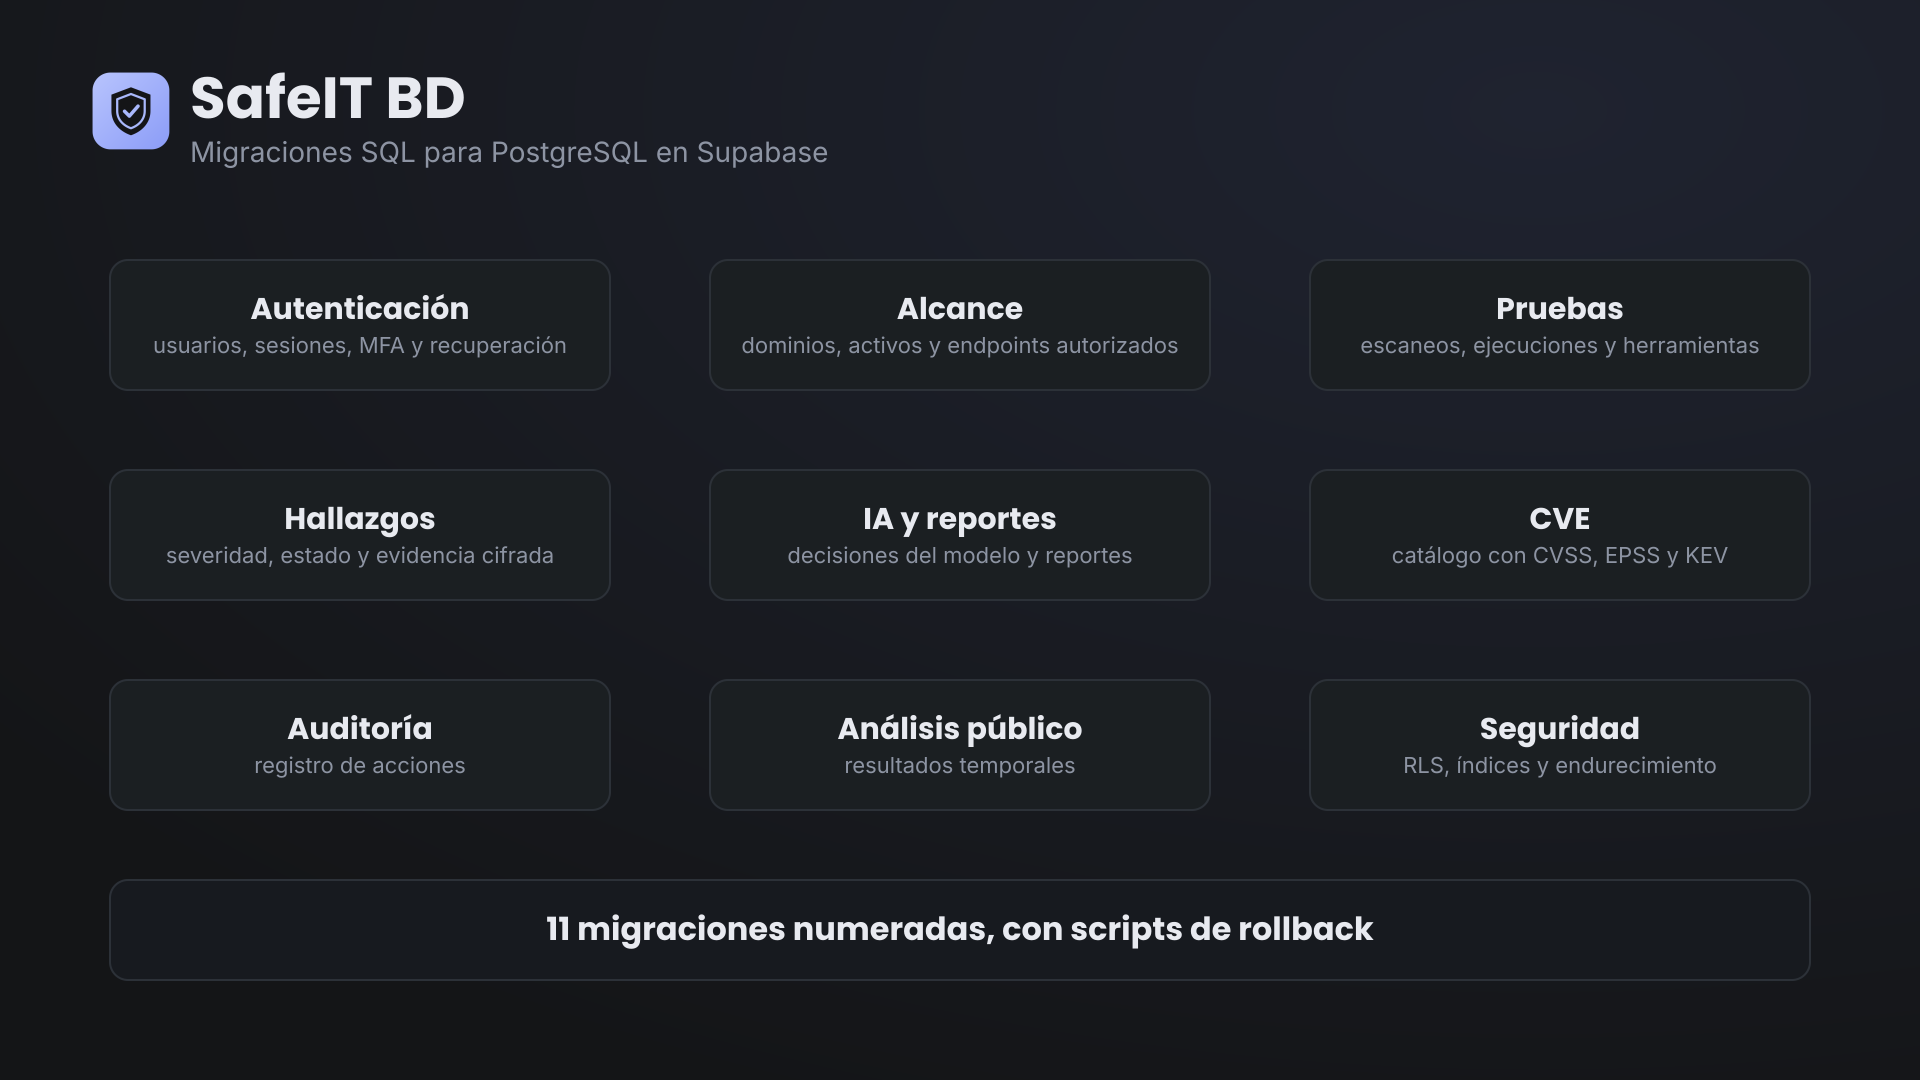
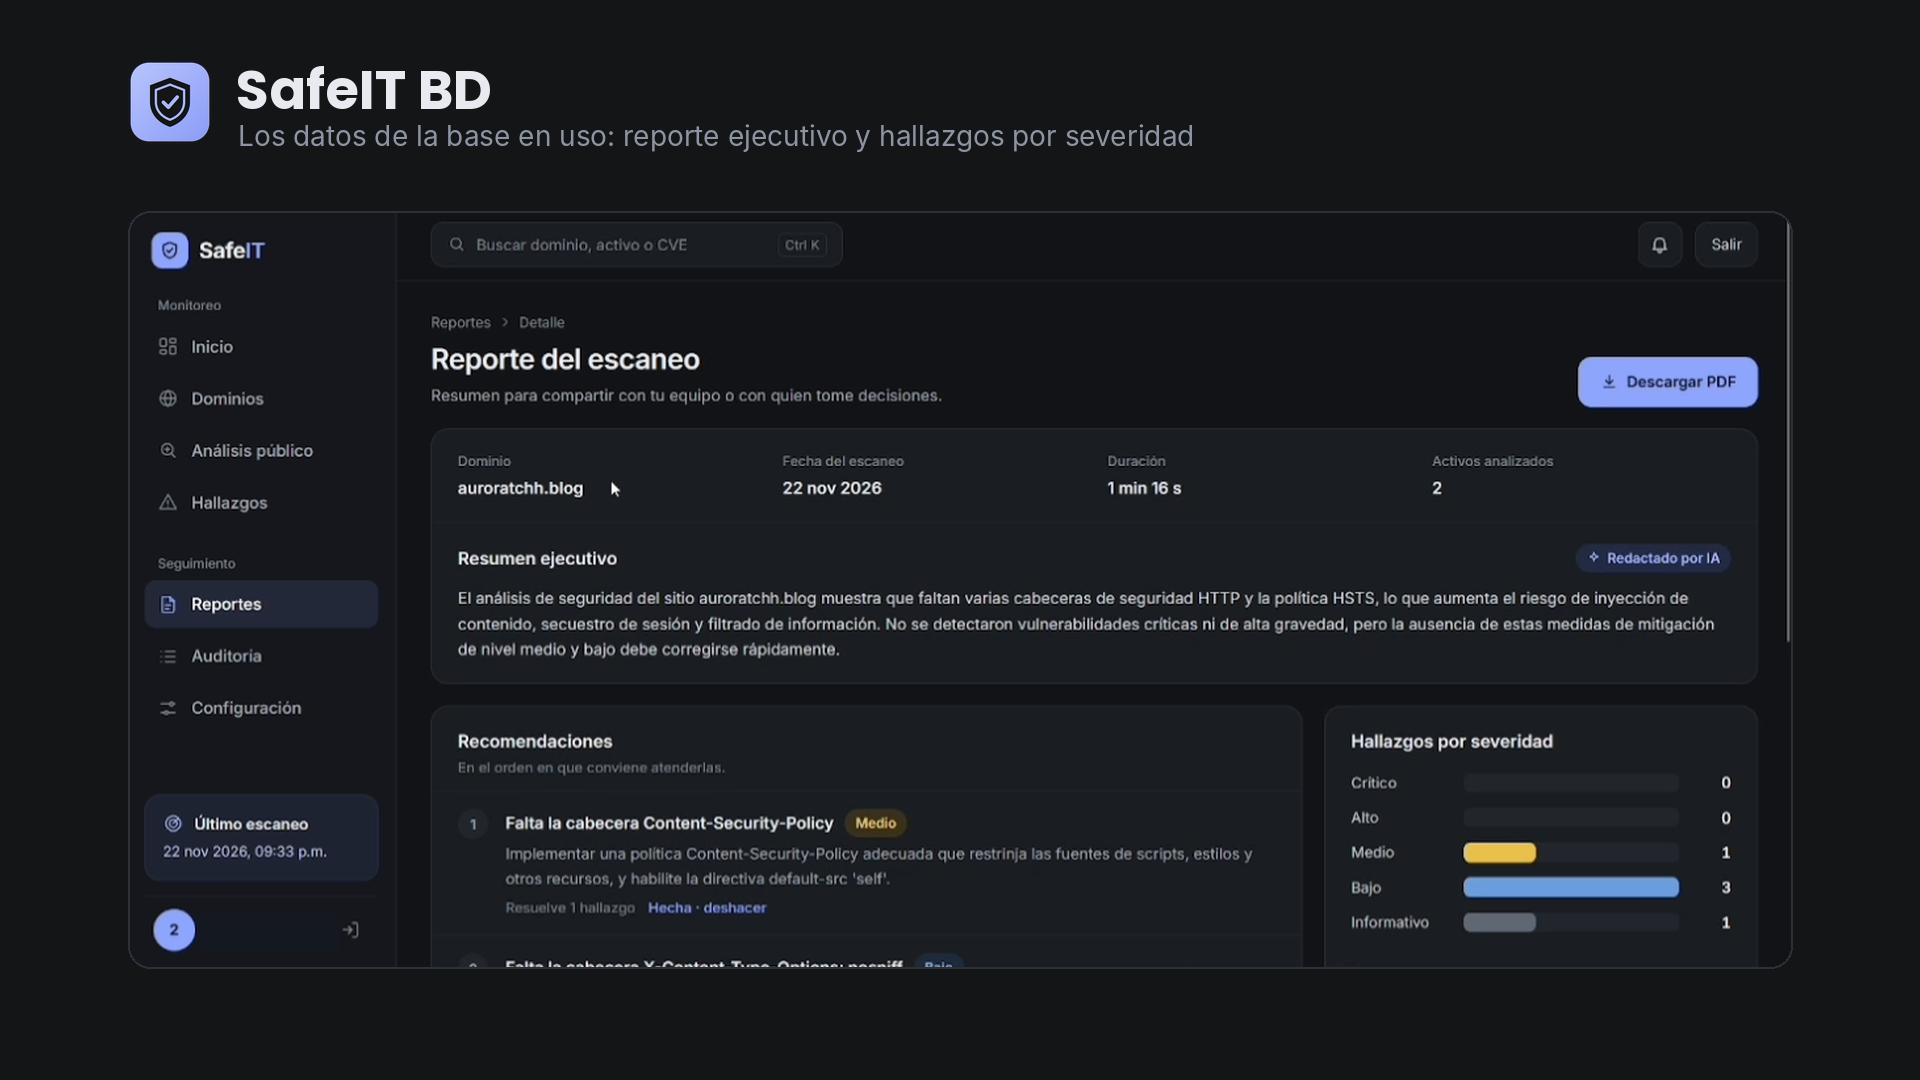
Usa la interfaz funcionando como vista previa y agrega el diagrama de flujo

diff --git a/README.md b/README.md
@@ -2,12 +2,15 @@
   <img src="logo.png" alt="Logo de SafeIT" width="120">
 </p>
 
-![Vista previa de safeit-bd](preview.png)
+![Interfaz de SafeIT funcionando](preview.png)
+
+![Flujo de safeit-bd](flujo.png)
 
 | Recurso | Ruta en el repositorio | URL |
 |---|---|---|
 | Logo | `/logo.png` | https://raw.githubusercontent.com/Ilyavosky/safeit-bd/main/logo.png |
-| Vista previa | `/preview.png` | https://raw.githubusercontent.com/Ilyavosky/safeit-bd/main/preview.png |
+| Vista previa (interfaz funcionando) | `/preview.png` | https://raw.githubusercontent.com/Ilyavosky/safeit-bd/main/preview.png |
+| Flujo | `/flujo.png` | https://raw.githubusercontent.com/Ilyavosky/safeit-bd/main/flujo.png |
 
 # SafeIT BD
 
